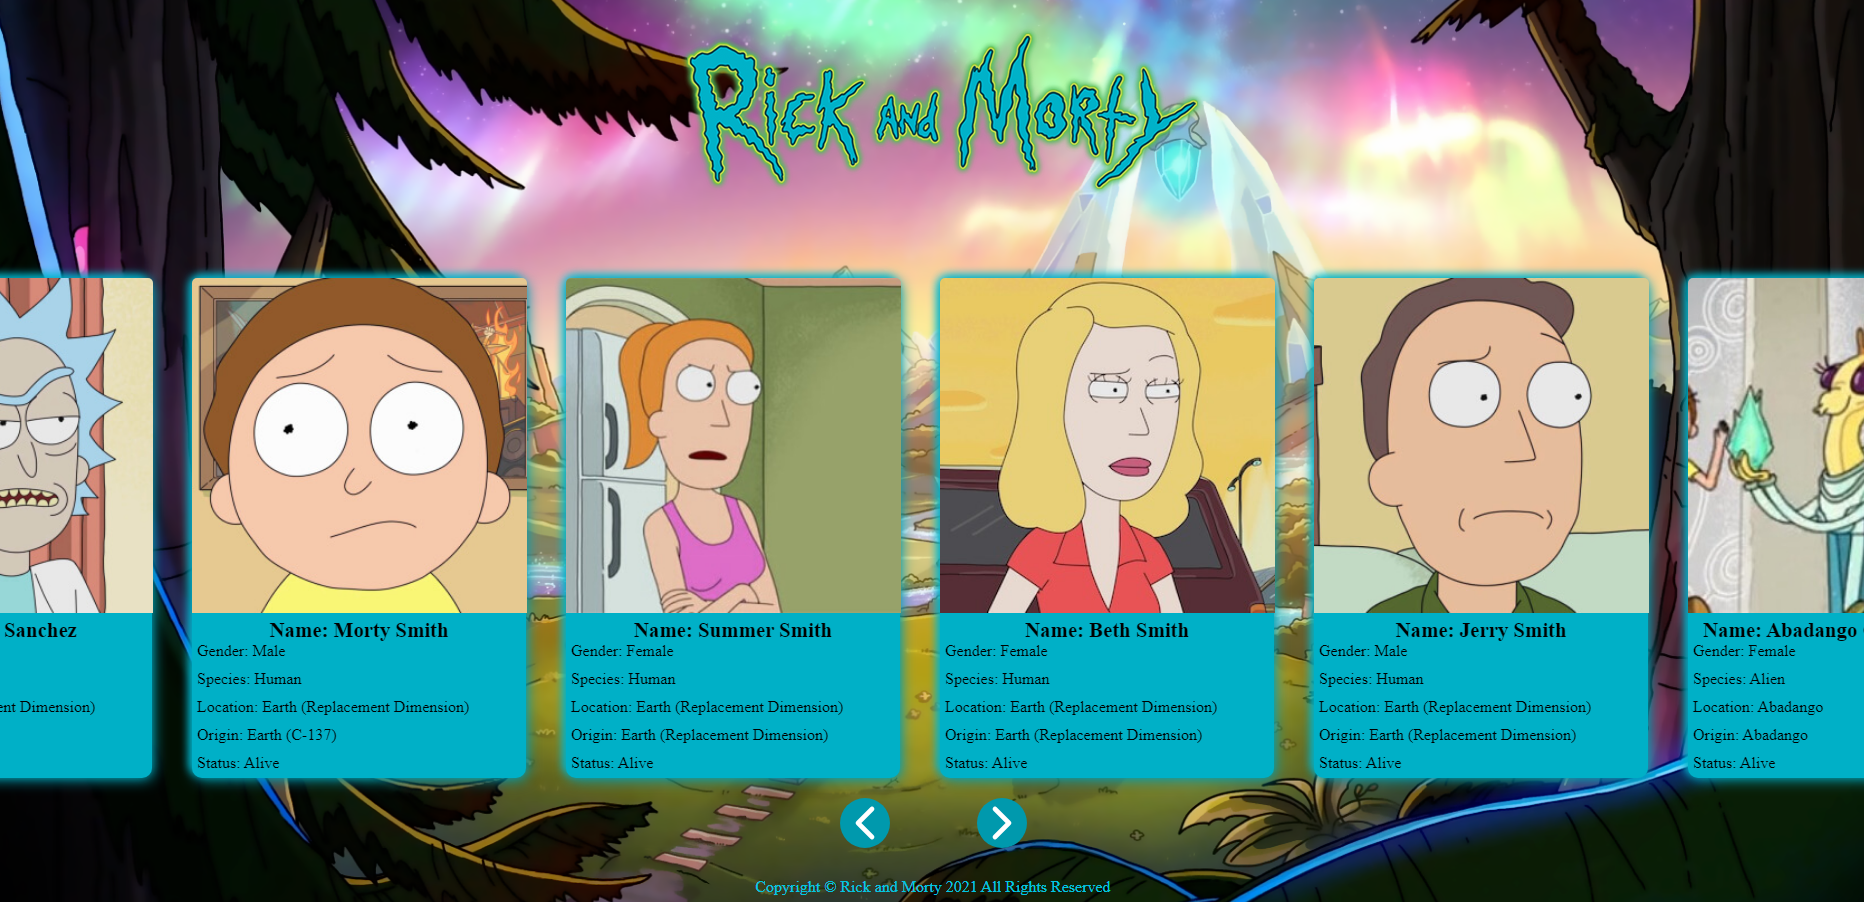
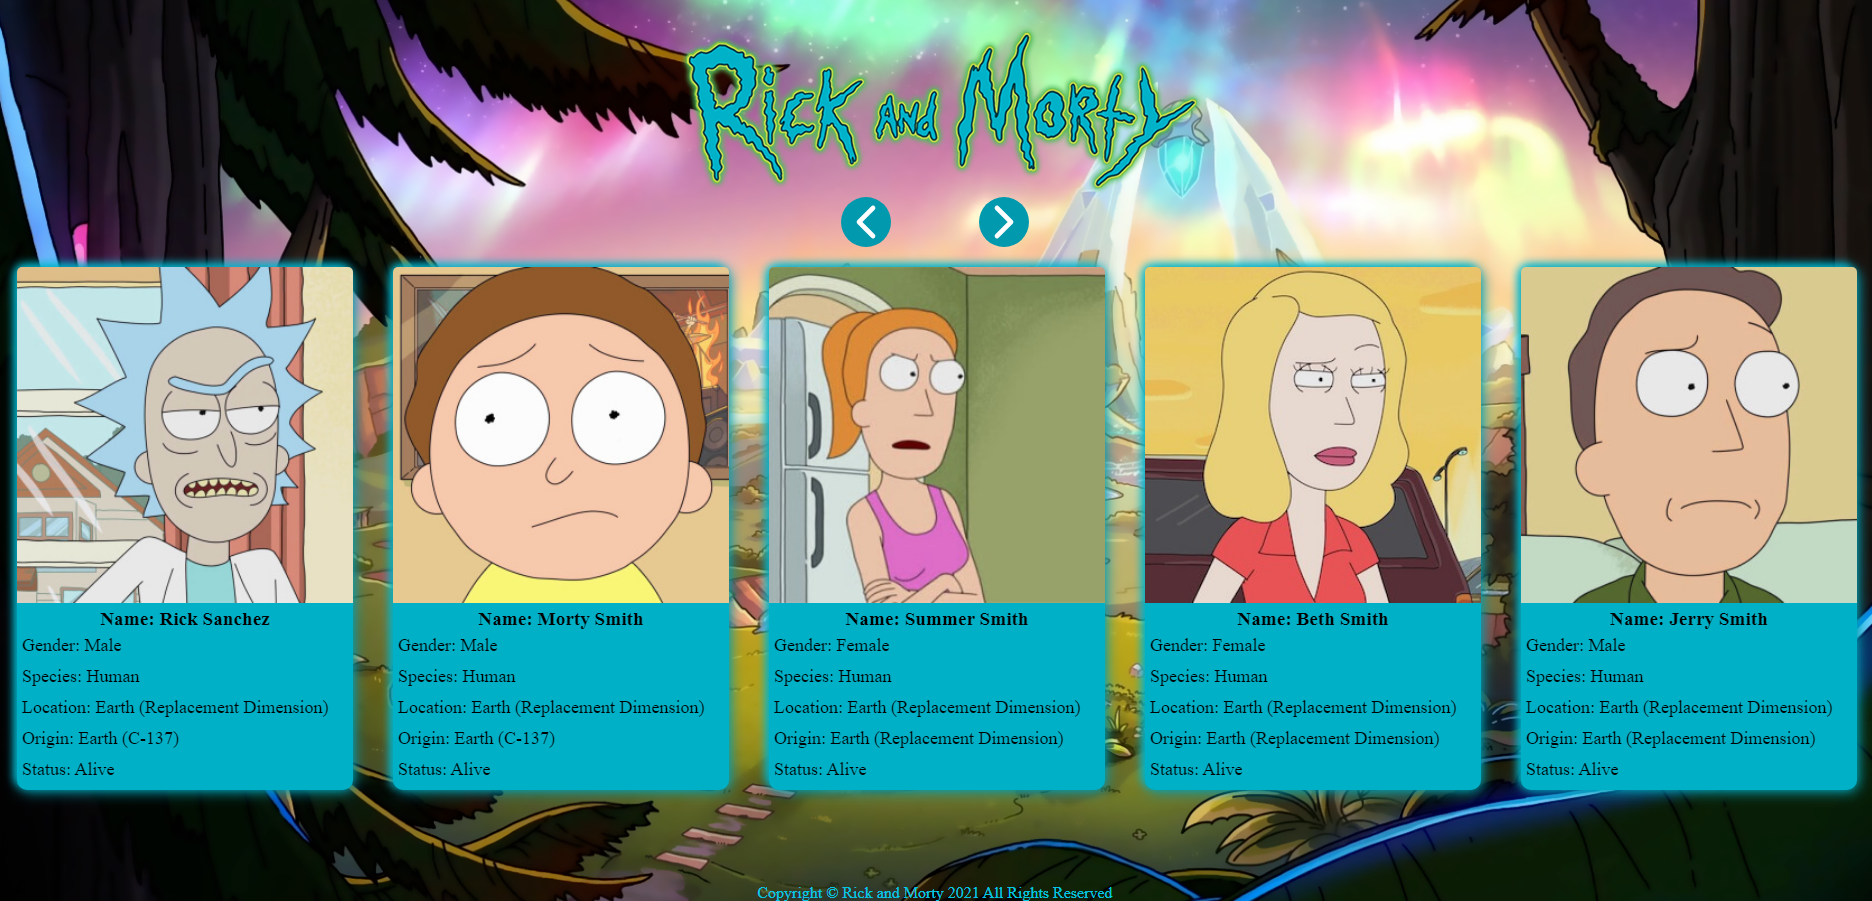
wip: media query @1440px added and styling also added new screenshots of new layout of pagination btns on top

diff --git a/css/style.css b/css/style.css
@@ -119,26 +119,26 @@ h3 {
 }
 
 /* Media Query */
-/* @media screen and (max-width: 1440px) {
+@media screen and (max-width: 1440px) {
   #slick-reform {
     width: 100%;
     height: 510px;
     margin-top: 40px;
   }
   .img-rm {
-    display: block;
     margin: 0 auto;
-    width: 50%;
+    display: block;
+    width: 60%;
   }
   #rm-info .prev-arrow ion-icon {
     position: absolute;
     top: -30px;
-    left: 37%;
+    left: 40%;
   }
   #rm-info .next-arrow ion-icon {
     position: absolute;
     top: -30px;
-    right: 38%;
+    right: 40%;
   }
   .rm-footer {
     position: absolute;
@@ -146,7 +146,7 @@ h3 {
     left: -50%;
     right: -50%;
   }
-} */
+}
 
 @media screen and (max-width: 1024px) {
   #slick-reform {
